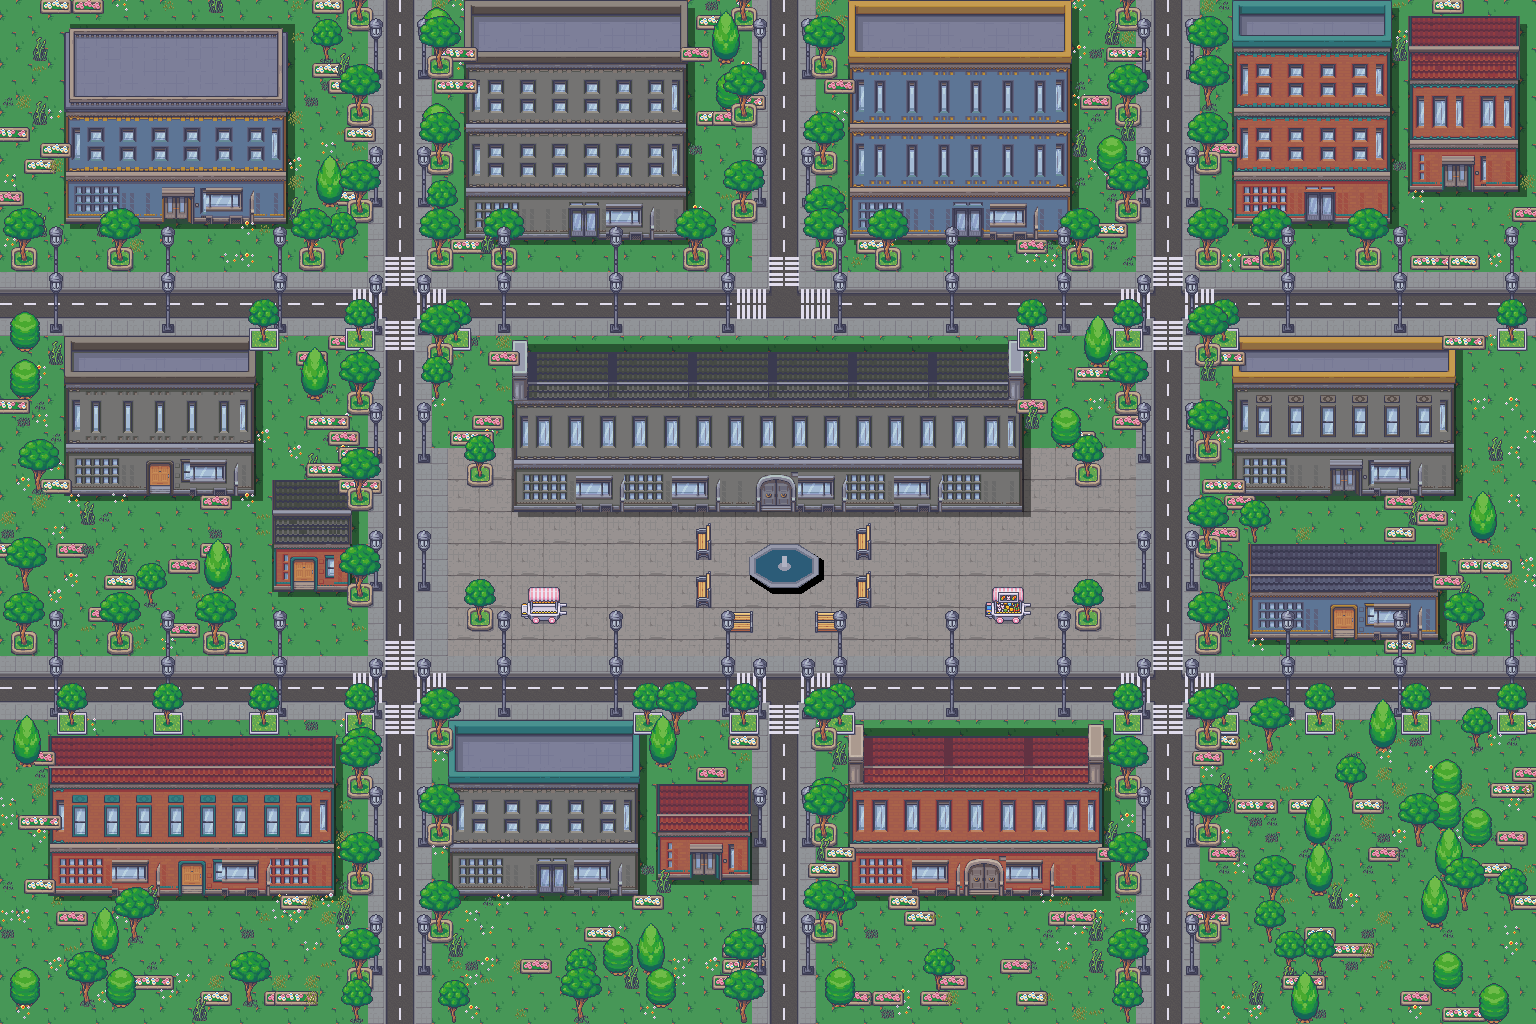
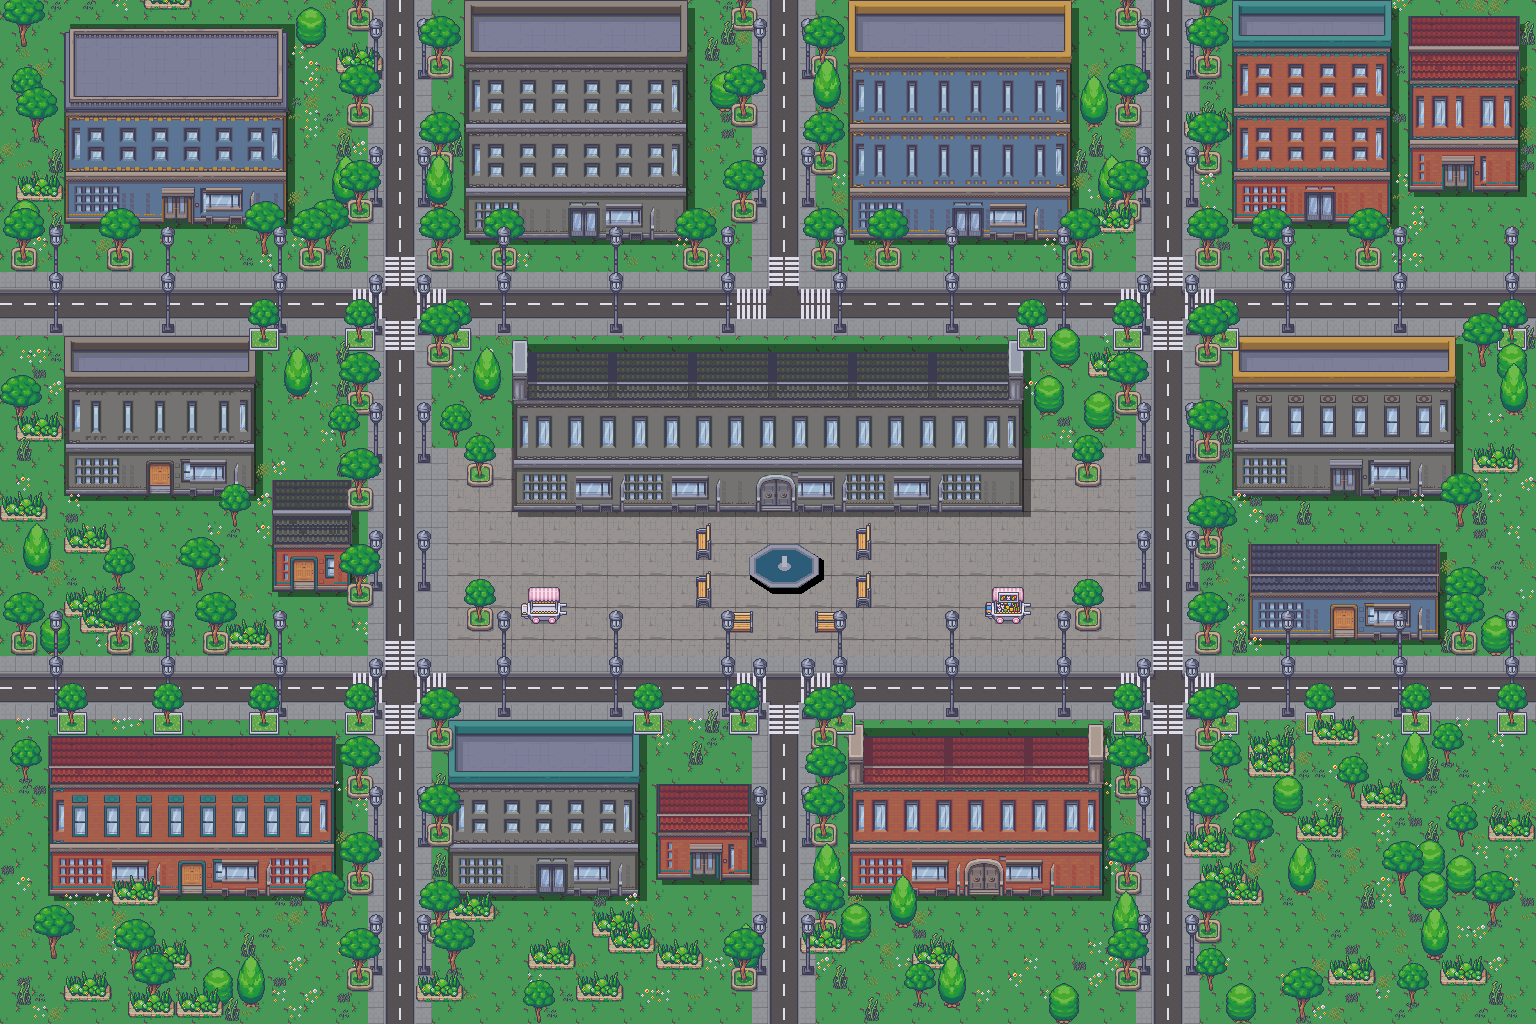
City art in QA (?art=new): fewer loose planters, wide props block their tiles, door reachability check
check_city2.py walks the new map like the city does: all 14 doors reachable from the plaza. The city checks run with
either art (SF_ART); both pass on QA (56/56, 42/42).

diff --git a/web/scripts/check_city2.py b/web/scripts/check_city2.py
@@ -1,0 +1,55 @@
+"""Checks the new art's map (city2.json, from build_city.py) the way the city walks it (world.ts): every building's door
+and the plaza must be reachable on foot from each other, and no door may be covered by a prop.
+
+Run: .venv/Scripts/python.exe web/scripts/check_city2.py   (exit 1 if something is not reachable)
+"""
+from __future__ import annotations
+
+import json
+import sys
+from collections import deque
+from pathlib import Path
+
+sys.path.insert(0, str(Path(__file__).parent))
+import build_city as bc  # noqa: E402
+
+doc = json.loads(bc.MANIFEST.read_text(encoding="utf-8"))
+walk = [[False] * bc.COLS for _ in range(bc.ROWS)]
+for y in range(bc.ROWS):
+    for x in range(bc.COLS):
+        walk[y][x] = bc.is_crosswalk(x, y) if bc.is_road(x, y) else True
+for b in doc["buildings"]:
+    for y in range(b["y"], b["door"]["y"]):
+        for x in range(b["x"], b["x"] + b["w"]):
+            walk[y][x] = False
+for y in range(34, 37):            # the fountain's basin (world.ts)
+    for x in range(47, 51):
+        walk[y][x] = False
+for x, y in bc.KIOSKS:
+    for yy in (y, y + 1):
+        for xx in (x, x + 1):
+            walk[yy][xx] = False
+for x, y in doc["blocked"]:
+    walk[y][x] = False
+
+start = (40, 33)                    # world.ts plazaSpot's fallback: a plaza tile
+seen = {start}
+q = deque([start])
+while q:
+    x, y = q.popleft()
+    for nx, ny in ((x + 1, y), (x - 1, y), (x, y + 1), (x, y - 1)):
+        if 0 <= nx < bc.COLS and 0 <= ny < bc.ROWS and walk[ny][nx] and (nx, ny) not in seen:
+            seen.add((nx, ny))
+            q.append((nx, ny))
+bad = []
+for b in doc["buildings"]:
+    d = (b["door"]["x"], b["door"]["y"])
+    if not walk[d[1]][d[0]]:
+        bad.append(f"{b['id']}: its door tile {d} is not walkable")
+    elif d not in seen:
+        bad.append(f"{b['id']}: its door {d} cannot be reached from the plaza")
+total = sum(row.count(True) for row in walk)
+print(f"walkable tiles {total}, reachable from the plaza {len(seen)} ({len(seen) / total:.0%}), doors checked {len(doc['buildings'])}")
+for m in bad:
+    print("FAIL", m)
+sys.exit(1 if bad else 0)

diff --git a/web/scripts/build_city.py b/web/scripts/build_city.py
@@ -363,7 +363,7 @@ def decorate(placed: list[dict], R: random.Random) -> Decor:
     lamp = prop("Street_Lamp_5")
     trees_street = [prop(f"Tree_{i}") for i in (9, 13, 14)]
     trees_park = [prop(f"Tree_{i}") for i in (1, 2, 3, 4, 5, 6, 11, 12)]
-    bushes = [prop(f"Shrub_{i}") for i in (1, 2, 3, 5, 6, 9)] + [prop(f"Flower_Bush_{i}") for i in (1, 3, 5)]
+    bushes = [prop(f"Shrub_{i}") for i in (1, 2, 3, 5, 6, 9, 11)]
     flowers = [prop(f"Flowers_{i}") for i in range(1, 6)]
     # street lamps on the sidewalks along the roads (their light pools: the night layer)
     for r in HROADS:
@@ -399,7 +399,10 @@ def decorate(placed: list[dict], R: random.Random) -> Decor:
             if roll < 0.13 and D.free(x - 1, y - 1, 3, 2):
                 D.add(trees_park[R.randrange(len(trees_park))], x * T + 8 + R.randrange(-3, 4), y * T + T, [(x, y)])
             elif roll < 0.19:
-                D.add(bushes[R.randrange(len(bushes))], x * T + 8, y * T + T - 2, [(x, y)])
+                im = bushes[R.randrange(len(bushes))]
+                span = [(x + i, y) for i in range(-(im.width // 32), im.width // 32 + 1)]   # a wide planter: every tile it covers
+                if all(D.free(tx, ty) for tx, ty in span):
+                    D.add(im, x * T + 8, y * T + T - 2, span)
             elif roll < 0.27:
                 D.add(flowers[R.randrange(len(flowers))], x * T + 8, y * T + T - 3)
     # the plaza: planters at its corners, benches facing the fountain, two carts

diff --git a/web/scripts/verify_city.py b/web/scripts/verify_city.py
@@ -8,6 +8,7 @@ changes over time, live Strike prices, the deep link, keyboard control, reduced 
 """
 
 import json
+import os
 import sys
 import time
 from pathlib import Path
@@ -53,6 +54,8 @@ def overflow(page):
 def run(p, name, viewport, mobile):
     browser = p.chromium.launch()
     ctx = browser.new_context(viewport=viewport, locale="en-US", device_scale_factor=2 if mobile else 1, is_mobile=mobile, has_touch=mobile)
+    if os.environ.get("SF_ART"):   # the city's art to check (new: LimeZu's, web/scripts/build_city.py)
+        ctx.add_init_script("try { sessionStorage.setItem('sf-art', '%s') } catch (e) {}" % os.environ["SF_ART"])
     page = ctx.new_page()
     errors = []
     page.on("console", lambda m: errors.append(m.text) if m.type == "error" else None)
@@ -148,6 +151,8 @@ def run(p, name, viewport, mobile):
 
     # deep link + reduced motion in a fresh context
     ctx = browser.new_context(viewport=viewport, locale="en-US", reduced_motion="reduce", device_scale_factor=1, is_mobile=mobile, has_touch=mobile)
+    if os.environ.get("SF_ART"):   # the city's art to check (new: LimeZu's, web/scripts/build_city.py)
+        ctx.add_init_script("try { sessionStorage.setItem('sf-art', '%s') } catch (e) {}" % os.environ["SF_ART"])
     page = ctx.new_page()
     errs2 = []
     page.on("pageerror", lambda e: errs2.append(str(e)))

diff --git a/web/scripts/verify_city_live.py b/web/scripts/verify_city_live.py
@@ -11,6 +11,7 @@ check open R against the live Strike price and the trades table.
 
 import json
 import re
+import os
 import sys
 from pathlib import Path
 
@@ -43,6 +44,8 @@ def overflow(page):
 
 def open_city(browser, base, viewport, mobile, welcome=True, block_api=False, hash="#/city"):
     ctx = browser.new_context(viewport=viewport, locale="en-US", device_scale_factor=2 if mobile else 1, is_mobile=mobile, has_touch=mobile)
+    if os.environ.get("SF_ART"):   # the city's art to check (new: LimeZu's, web/scripts/build_city.py)
+        ctx.add_init_script("try { sessionStorage.setItem('sf-art', '%s') } catch (e) {}" % os.environ["SF_ART"])
     if block_api:
         ctx.route("**/api/city", lambda r: r.abort())
     page = ctx.new_page()
